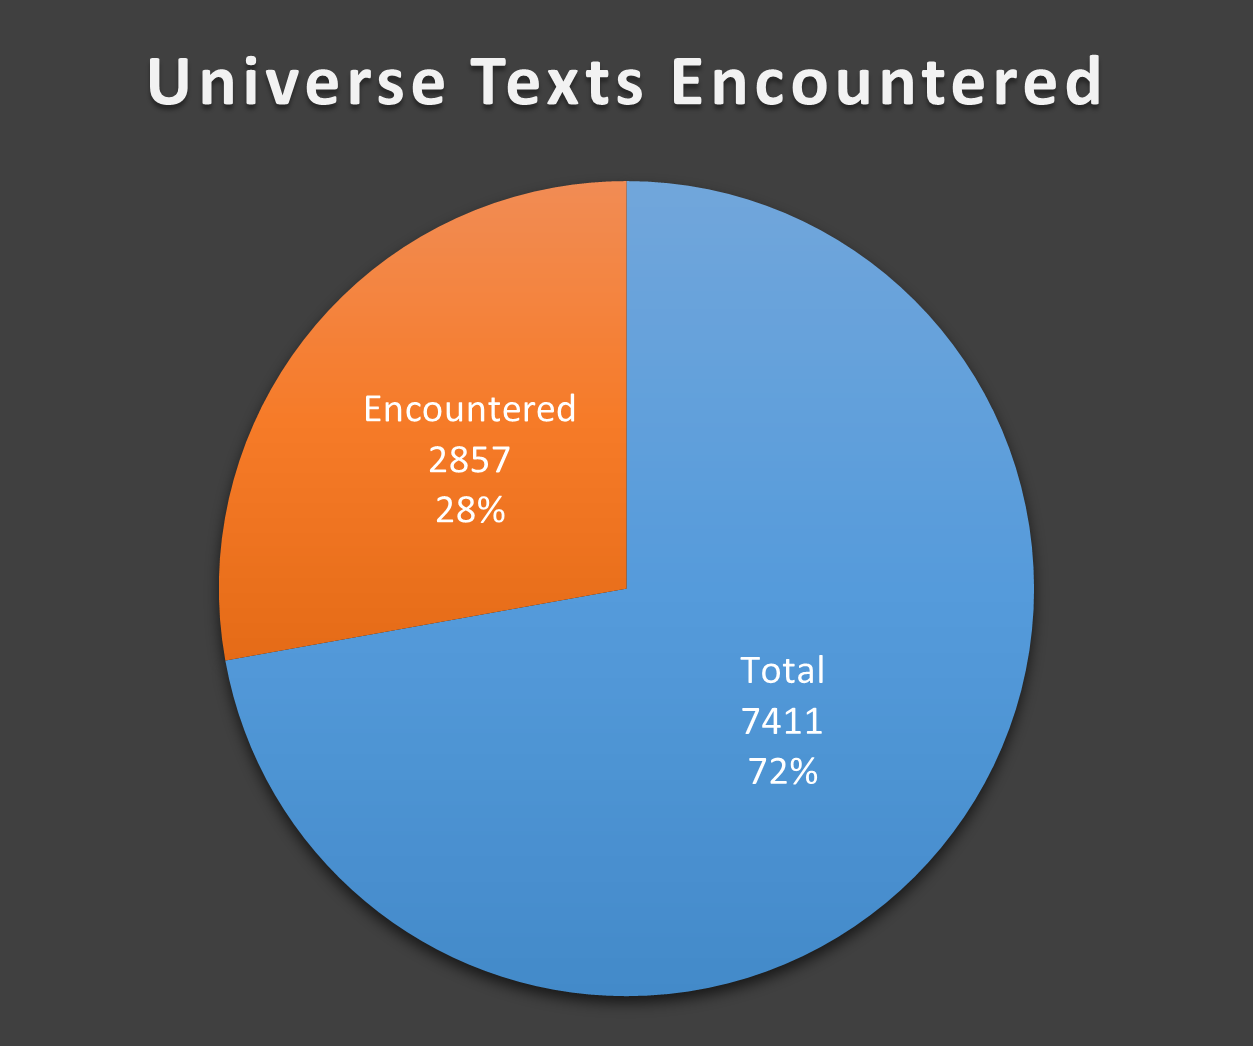
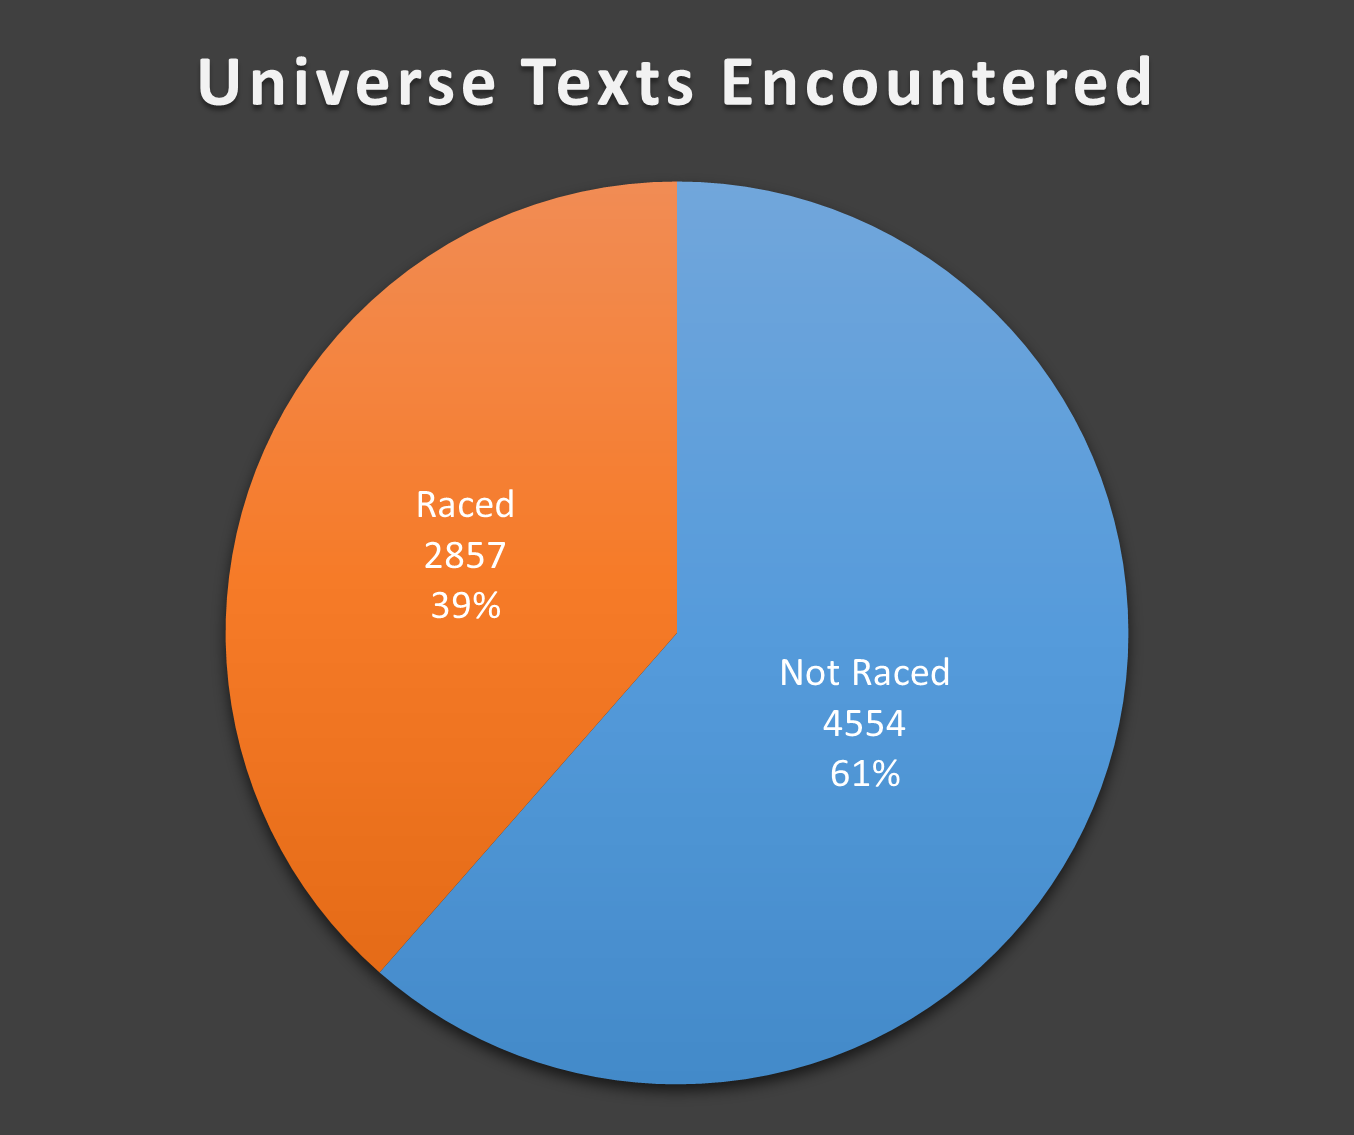
Common Races done*
"finished" common races section
Added several new images
corrected pie-universe-texts.png

diff --git a/typeracer.html b/typeracer.html
@@ -23,7 +23,7 @@
         <a href="https://data.typeracer.com/pit/profile?user=tythal&ref=badge">
             <img src="./images/typeracer-profile-summary.png" alt="Typeracer Score Card"/>
         </a>
-        <p>Aug. 24, 2022</p>
+        <p>Aug. 29, 2022</p>
     </section>
 
     <!-- Section: Introduction-->
@@ -34,7 +34,7 @@
             <p>During the summer of 2018 I decided to train myself on "proper" touch typing.
                 I was already familiar with typeracer, and as soon as I found out I could download my data I knew I wanted to make a project out of it.
                 <br><br>
-                This scatterplot depicts a high-level summary of my progress thus far. The following sections will explore my typeracer activity, individual races, and WPM improvement.
+                This scatterplot depicts a high-level summary of my progress thus far. The following sections will explore my typeracer activity, individual races, and WPM improvement (TODO).
                 <br><br>
                 Lastly, I would like to credit <a href="https://typeracerdata.com/profile?username=tythal">typeracerdata.com</a> for inspiring or simplifying several parts of this project. 
             </p>
@@ -198,11 +198,13 @@
                 <br><br>
                 Standard universes for many languages exist. Additionally, there are dozens of topical or niche universes such as Dictionary, Jokes, Lord of the Rings, Copypasta, and more. Once again, typeracerdata.com is a tremendous resource for all this information. You can find a list of popular universes <a href="https://typeracerdata.com/universes">here</a>.
                 <br><br>
-                I almost exclusive play in the default english universe. Typeracerdata.com suggests there are 7411 unique texts in this universe at the time of writing, and I have completed 2857 unique text ids. Consequently, I have experienced about 28% of this universe.
+                I almost exclusive play in the default english universe. Typeracerdata.com suggests there are 7411 unique texts in this universe at the time of writing, and I have completed 2857 unique text ids. Consequently, I have experienced about 38.5% of this universe.
                 <br><br>
-                ~~This <a href="https://typeracer.wordpress.com/2017/08/27/typeracer-reaches-3700-quotes-how-many-have-you-typed/">blog post</a> from 2017 suggests each skill level may encounter only a subset of these texts (playing naturally). Without further information, I had to make some simplyfing assumptions in my analysis.~~
+                There were 2857 unique text ids among 4567 total races. Roughly speaking, 1/3rd of my races were on quotes I have raced before, and 2/3rds were completely novel.
                 <br><br>
-                ~~~~~ TODO: FINISH SUBSECTION. SEGWAY INTO NEXT SECT. ~~~~~
+                The bar chart illustrates: among 2857 unique quotes, 1683 of them were raced exactly one time. 785 of them were raced exactly twice, and so on. The most frequently encountered quote was actually a tie - both quotes having been raced 6 times each each.
+                <br><br>
+                The next section reports on some of my most encountered races. Including the race script, a figure plotting race outcomes, and some light stats.
             </p>
 
             <section class="cr-flex-col">
@@ -218,16 +220,74 @@
 
         <!-- subsection: sample quotes -->
         <section class="sample-quotes-container">
+
             <section class="sample-quote">
-                <p class="text-quote">It is now time to make it unclear. To write off lines that don't make sense. I love myself better than you. I know it's wrong so what should I do? And one more special message to go, and then I'm done, and I can go home. I love myself better than you. I know it's wrong so what should I do?
+                <p class="text-quote">
+                    It is now time to make it unclear. To write off lines that don't make sense. I love myself better than you. I know it's wrong so what should I do? And one more special message to go, and then I'm done, and I can go home. I love myself better than you. I know it's wrong so what should I do?
                     <br><br>
-                    - On a Plain by Nirvana
+                    - On a Plain (song) by Nirvana
                 </p>
     
-                <img src="./images/charts/line-text-3550811.png">
+                <img src="./images/charts/text-ids/3550811-line.png">
     
                 <section class="quote-stats-container">
-                    <img src="./images/charts/line-text-3550811.png">
+                    <img src="./images/charts/text-ids/3550811-stats.png">
+                </section>
+            </section>
+
+            <section class="sample-quote">
+                <p class="text-quote">
+                    There is some love that will not go away. You're here, there's nothing I fear and I know that my heart will go on. We'll stay forever this way, you are safe in my heart.
+                    <br><br>
+                    - My Heart Will Go On (song) by Céline Dion
+                </p>
+    
+                <img src="./images/charts/text-ids/3640264-line.png">
+    
+                <section class="quote-stats-container">
+                    <img src="./images/charts/text-ids/3640264-stats.png">
+                </section>
+            </section>
+
+            <section class="sample-quote">
+                <p class="text-quote">
+                    There's sometimes a buggy. How many drivers does a buggy have? So, let's just say I'm driving this buggy, and if you fix your attitude, you can ride along with me. Now you will see me one more time, if you do good. You will see me two more times, if you do bad.
+                    <br><br>
+                    - Mulholland Drive (movie) by David Lynch
+                </p>
+    
+                <img src="./images/charts/text-ids/76-line.png">
+    
+                <section class="quote-stats-container">
+                    <img src="./images/charts/text-ids/76-stats.png">
+                </section>
+            </section>
+
+            <section class="sample-quote">
+                <p class="text-quote">
+                    Every craft and every investigation, and likewise every action and decision, seems to aim at some good; hence the good has been well described as that at which everything aims. However, there is an apparent difference among the ends aimed at. For the end is sometimes an activity, sometimes a product beyond the activity; and when there is an end beyond the action, the product is by nature better than the activity.
+                    <br><br>
+                    - Aristotle: Introductory Readings (book) by Aristotle
+                </p>
+    
+                <img src="./images/charts/text-ids/437-line.png">
+    
+                <section class="quote-stats-container">
+                    <img src="./images/charts/text-ids/437-stats.png">
+                </section>
+            </section>
+
+            <section class="sample-quote">
+                <p class="text-quote">
+                    It seems to me you lived your life like a candle in the wind, never knowing who to cling to when the rain set in. And I would have liked to have known you but I was just a kid.
+                    <br><br>
+                    - Candle In The Wind (song) by Elton John
+                </p>
+    
+                <img src="./images/charts/text-ids/3640134-line.png">
+    
+                <section class="quote-stats-container">
+                    <img src="./images/charts/text-ids/3640134-stats.png">
                 </section>
             </section>
 

diff --git a/CSS/typeracer.css b/CSS/typeracer.css
@@ -81,7 +81,7 @@ p > a:link, a:visited {
 
 .marathon > img {
     display:flex;
-    width:55vw;
+    max-width:55vw;
     height:auto;
     margin-left:2vw;
 }
